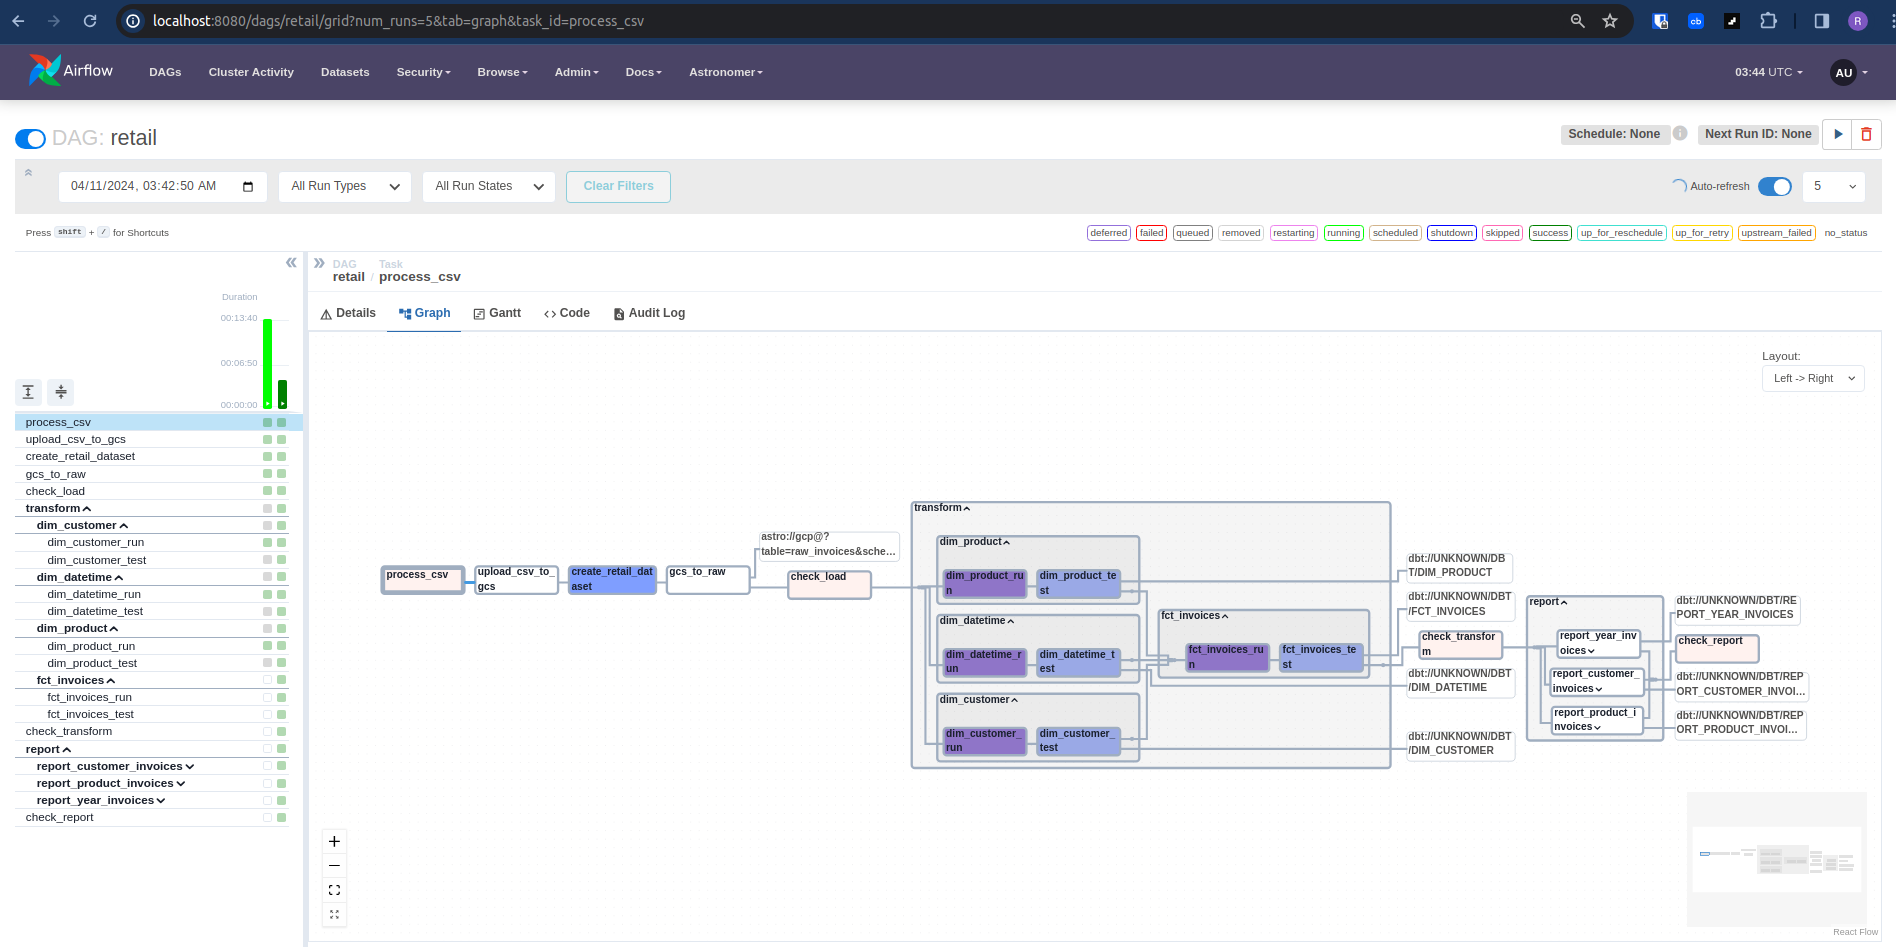
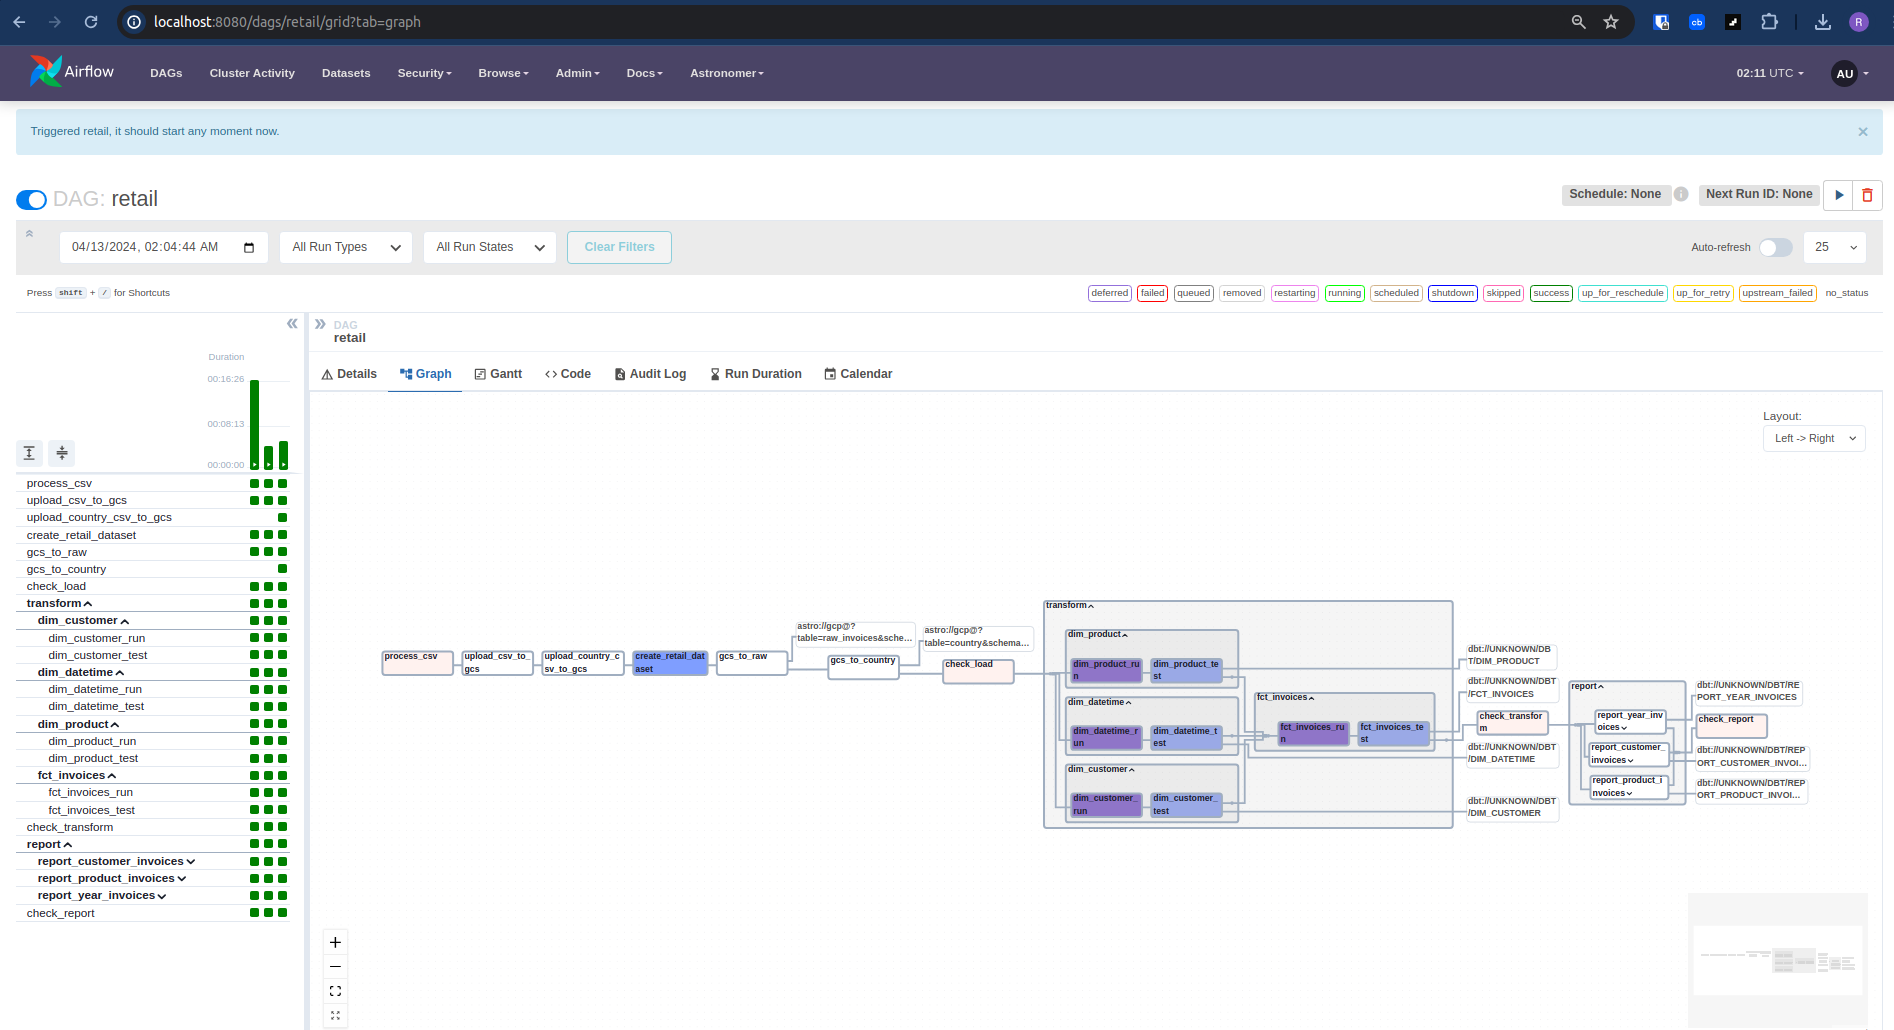
Updated DAG

diff --git a/dags/retail.py b/dags/retail.py
@@ -44,6 +44,15 @@ def retail():
         mime_type='text/csv',
         )
     
+    upload_country_csv_to_gcs = LocalFilesystemToGCSOperator(
+        task_id='upload_country_csv_to_gcs',
+        src='/usr/local/airflow/include/dataset/country.csv',
+        dst='raw/country.csv',
+        bucket='rh_online_retail',
+        gcp_conn_id='gcp',
+        mime_type='text/csv',
+        )
+    
     create_retail_dataset = BigQueryCreateEmptyDatasetOperator(
         task_id='create_retail_dataset',
         dataset_id='retail',
@@ -61,6 +70,21 @@ def retail():
             name='raw_invoices',
             conn_id='gcp',
             metadata=Metadata(schema='retail')
+        ),
+        use_native_support=False,
+    )
+
+    gcs_to_country = aql.load_file(
+        task_id='gcs_to_country',
+        input_file=File(
+            'gs://rh_online_retail/raw/country.csv',
+            conn_id='gcp',
+            filetype=FileType.CSV,
+        ),
+        output_table=Table(
+            name='country',
+            conn_id='gcp',
+            metadata=Metadata(schema='retail'),
         ),
         use_native_support=False,
     )
@@ -113,8 +137,10 @@ def retail():
     chain(
         csv_task,
         upload_csv_to_gcs,
+        upload_country_csv_to_gcs,
         create_retail_dataset,
         gcs_to_raw,
+        gcs_to_country,
         check_load_task,
         transform,
         check_transform_task,
@@ -122,6 +148,6 @@ def retail():
         check_report_task,
     )
 
-    # csv_task >> upload_csv_to_gcs >> create_retail_dataset >> gcs_to_raw >> check_load_task >> transform >> check_transform_task >> report >> check_report_task
+    # csv_task >> upload_csv_to_gcs >> upload_country_csv_to_gcs >> create_retail_dataset >> gcs_to_raw >> gcs_to_country >> check_load_task >> transform >> check_transform_task >> report >> check_report_task
     
 retail()

diff --git a/README.md b/README.md
@@ -13,14 +13,14 @@ https://www.kaggle.com/datasets/tunguz/online-retail
 
 | Column        |    Description                                                                                        |
 | --------------|-------------------------------------------------------------------------------------------------------|
-| InvoiceNo:    |    Invoice number. Nominal, a 6-digit integral number uniquely assigned to each transaction. If this code starts with letter 'c', it indicates a cancellation.                                                                                            |
-| StockCode:    |    Product (item) code. Nominal, a 5-digit integral number uniquely assigned to each distinct product.|
-| Description:  |    Product (item) name. Nominal.                                                                      |
-| Quantity:     |    The quantities of each product (item) per transaction. Numeric.                                    |
-| InvoiceDate:  |    Invice Date and time. Numeric, the day and time when each transaction was generated.               |   
-| UnitPrice:    |    Unit price. Numeric, Product price per unit in sterling.                                           |
-| CustomerID:   |    Customer number. Nominal, a 5-digit integral number uniquely assigned to each customer.            |
-| Country:      |    Country name. Nominal, the name of the country where each customer resides.                        |
+| InvoiceNo     |    Invoice number. Nominal, a 6-digit integral number uniquely assigned to each transaction. If this code starts with letter 'c', it indicates a cancellation.                                                                                            |
+| StockCode     |    Product (item) code. Nominal, a 5-digit integral number uniquely assigned to each distinct product.|
+| Description   |    Product (item) name. Nominal.                                                                      |
+| Quantity      |    The quantities of each product (item) per transaction. Numeric.                                    |
+| InvoiceDate   |    Invice Date and time. Numeric, the day and time when each transaction was generated.               |   
+| UnitPrice     |    Unit price. Numeric, Product price per unit in sterling.                                           |
+| CustomerID    |    Customer number. Nominal, a 5-digit integral number uniquely assigned to each customer.            |
+| Country       |    Country name. Nominal, the name of the country where each customer resides.                        |
 
 
 ## Prerequisites
@@ -39,7 +39,7 @@ Note: A free version of above should suffice for this project
     - Astro CLI - Data orchestration with Apache Airflow
     - Astro cosmos - Integrated dbt + Airflow
     - soda - Data quality tests in data pipelines
-    - metabse - Data visualization
+    - metabase - Data visualization
 - GCP storage bucket - Data lake
 - GCP Bigquery - OLAP Data warehouse
 
@@ -58,6 +58,7 @@ Note: A free version of above should suffice for this project
 
 - Download the dataset https://www.kaggle.com/datasets/tunguz/online-retail
     - Store the csv file in `include/dataset/online_retail_raw.csv`
+    - Additionally, `include/dataset/country.csv` is made available in this repo. We will be using it later in transformations/reports/dashboard.
 - Create a GCS bucket with a unique name `<your_name>_online_retail`
 - Create a service account with a name `airflow-online-retail`
     - Grant admin access to GCS + BigQuery
